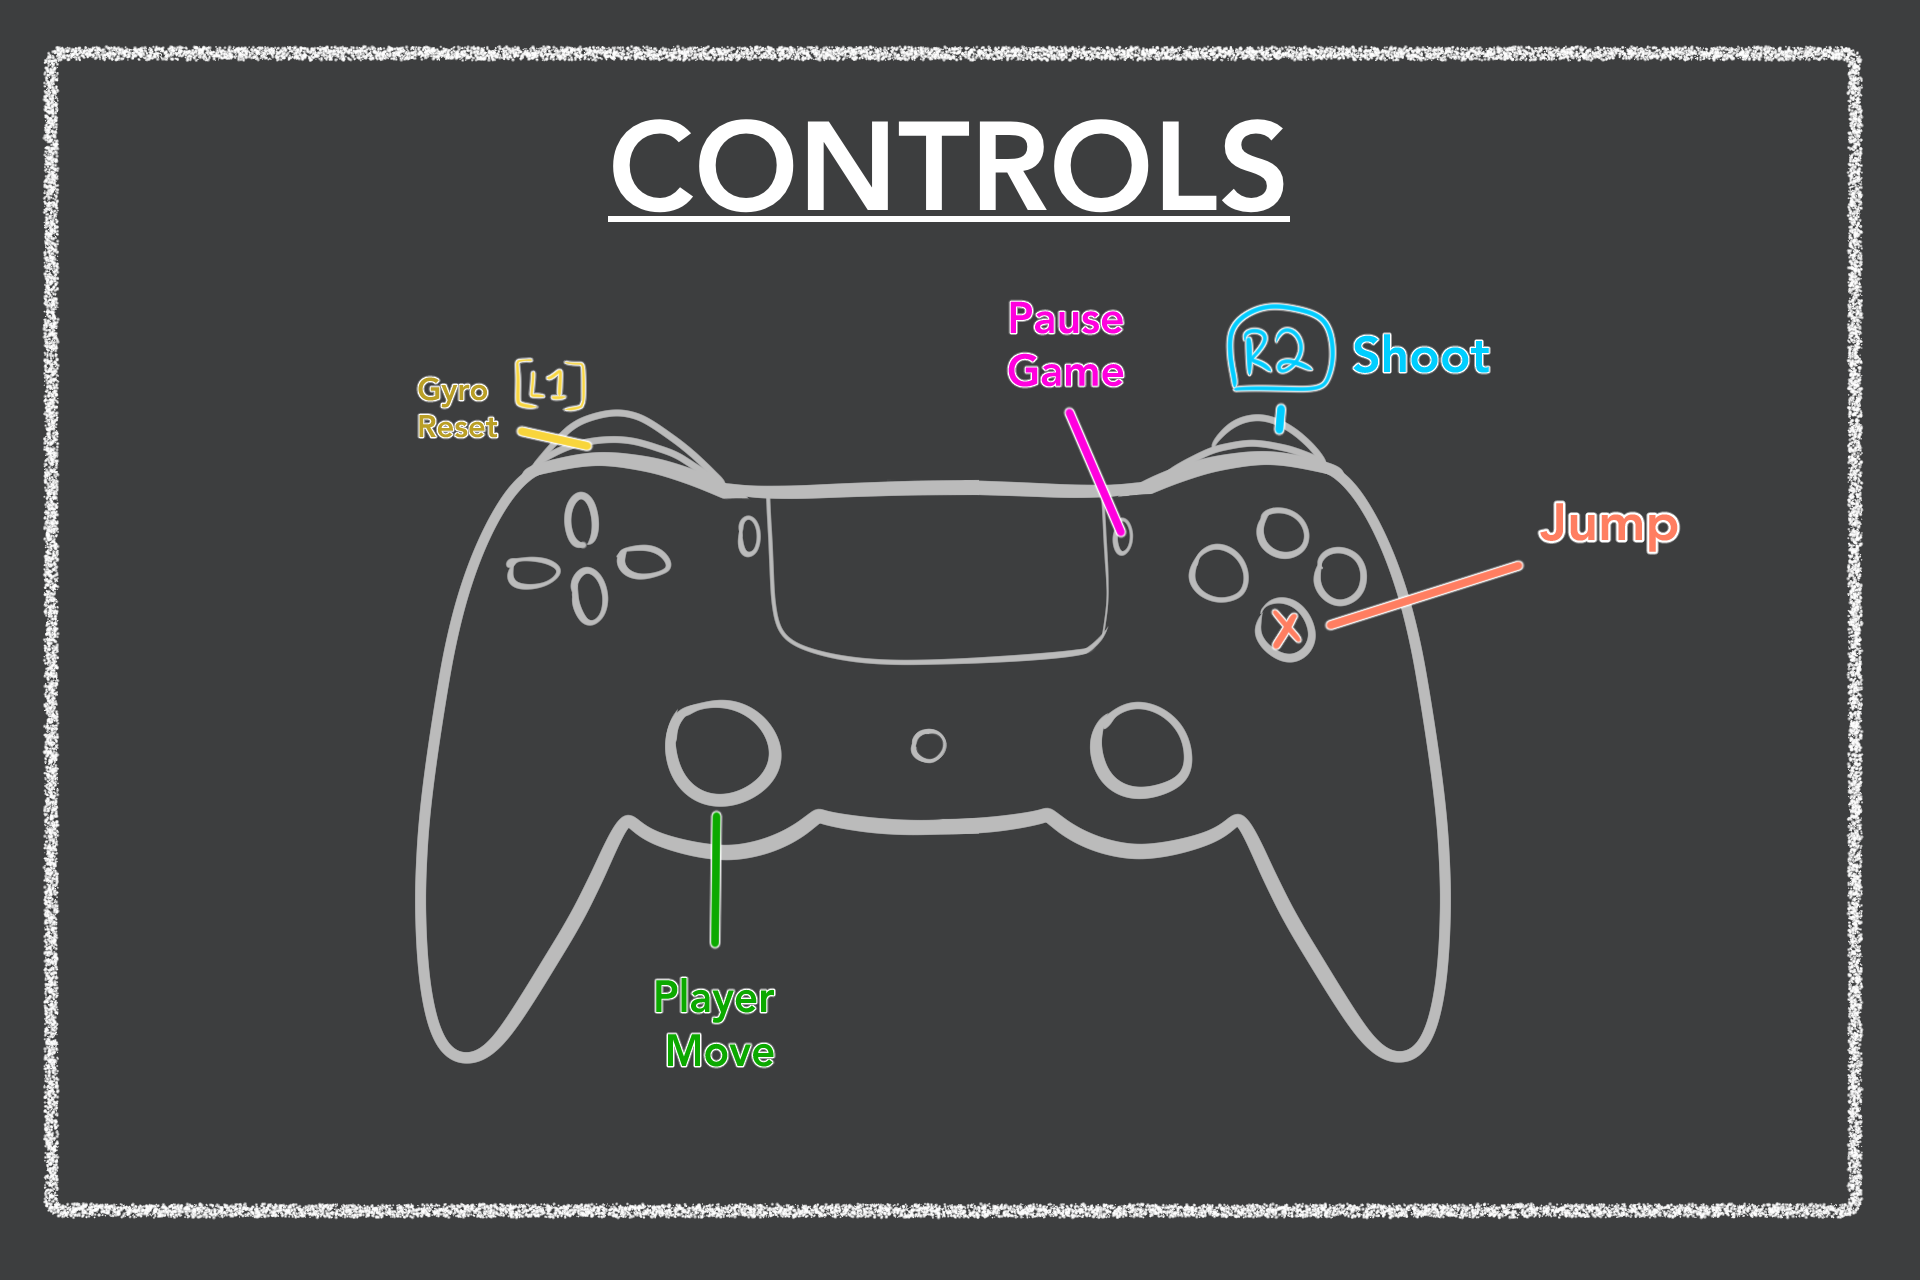
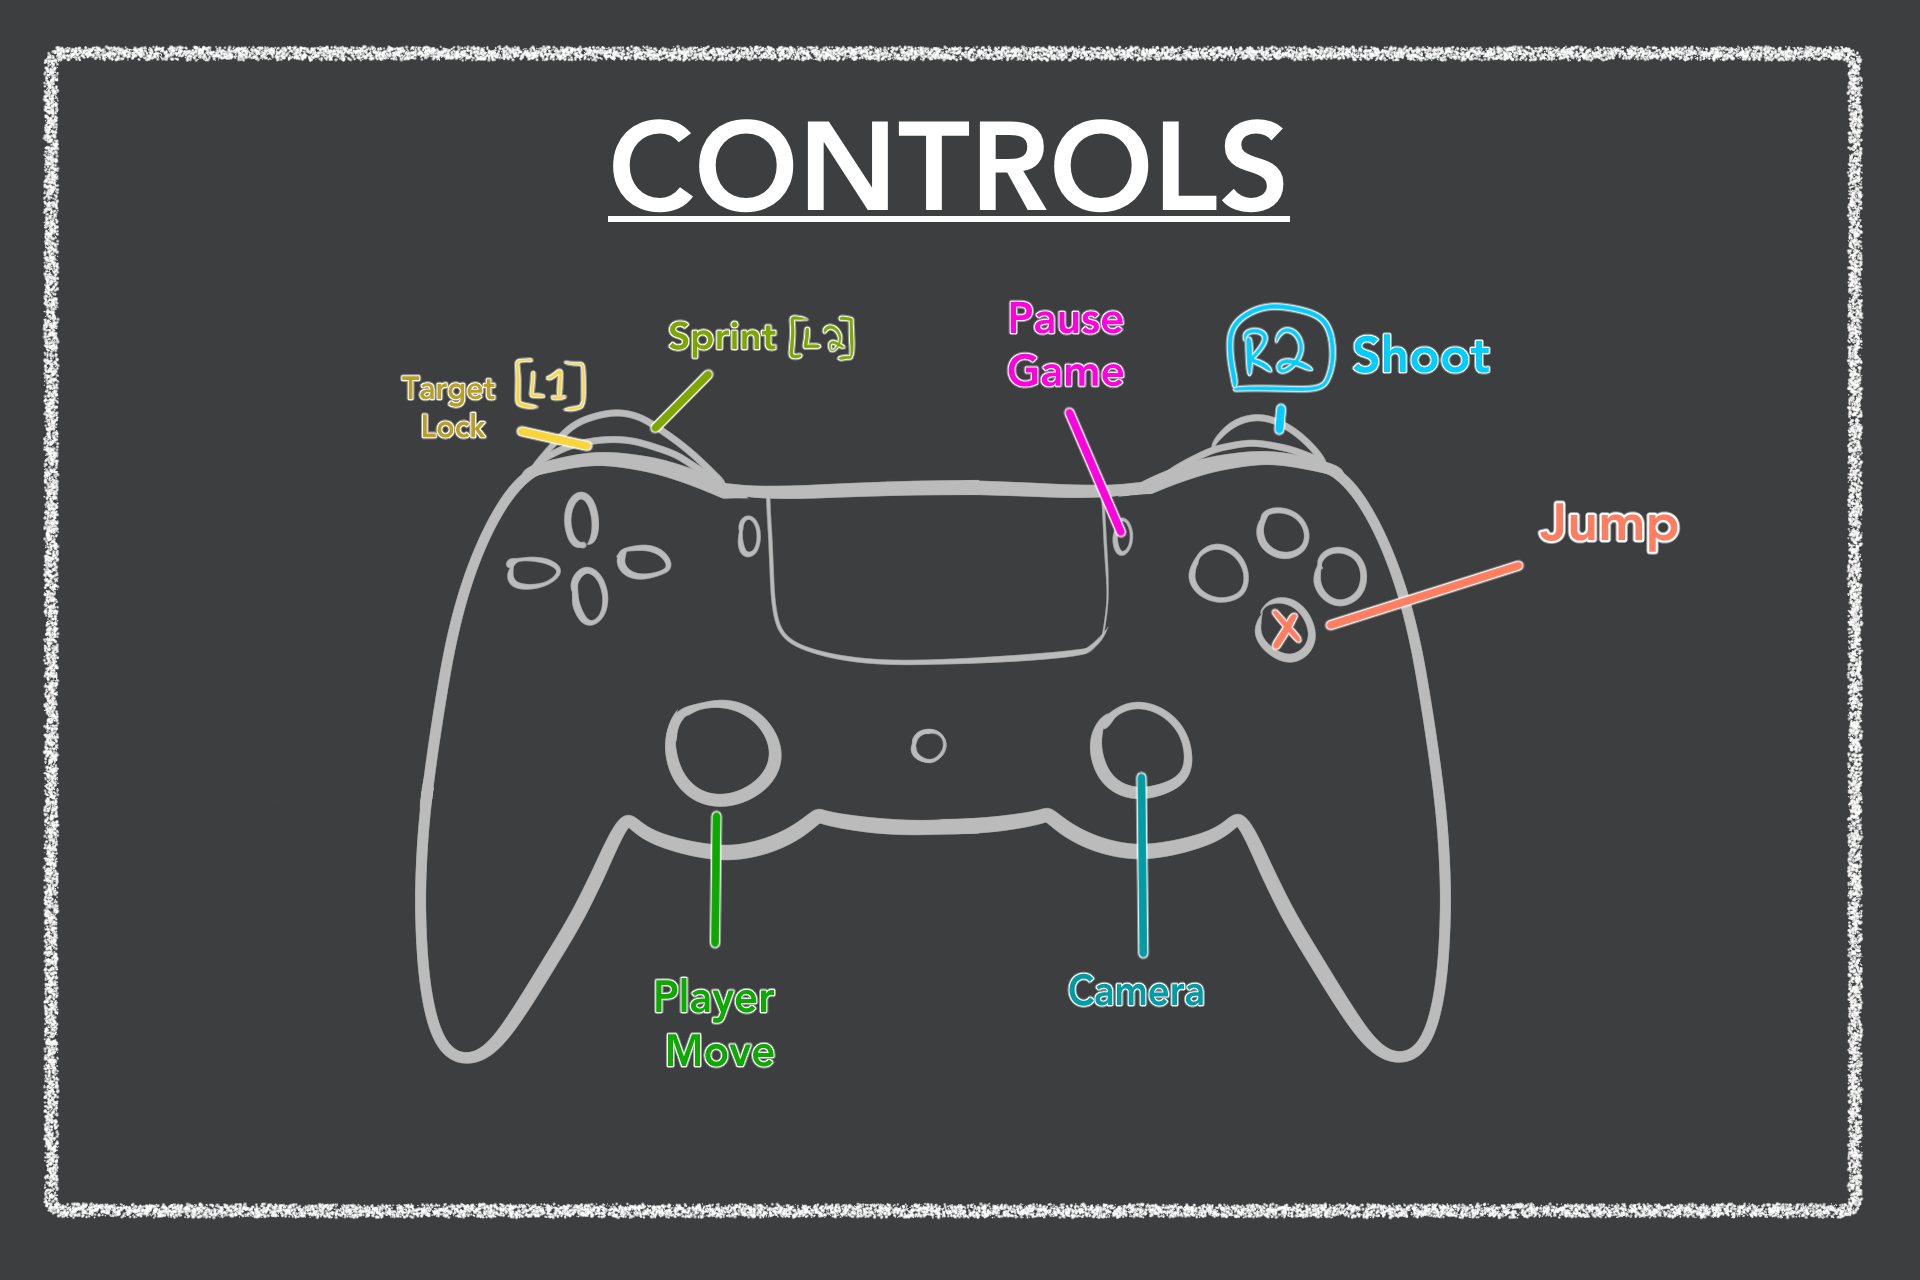
Add controls panel

Changed region(s): [[0.5312, 0.625, 0.625, 0.8125], [0.3438, 0.25, 0.4688, 0.3438], [0.1875, 0.2812, 0.2812, 0.3438]]

diff --git a/Assets/Scripts/Menu and Settings Scripts/PauseManager.cs b/Assets/Scripts/Menu and Settings Scripts/PauseManager.cs
@@ -13,6 +13,8 @@ public class PauseManager : MonoBehaviour
     private GameObject pausePanel;
     [SerializeField]
     private GameObject settingsPanel;
+    [SerializeField]
+    private GameObject controlsPanel;
 
     [SerializeField]
     private Button settingsButton;
@@ -61,7 +63,8 @@ public class PauseManager : MonoBehaviour
             else if (pauseStatus == PAUSESTATUS.Controls)
             {
                 pauseStatus = PAUSESTATUS.None;
-                Debug.Log("not implemented controls yet");
+                pauseStatus = PAUSESTATUS.None;
+                controlsPanel.SetActive(false);
             }
         }
 
@@ -93,7 +96,8 @@ public class PauseManager : MonoBehaviour
 
     private void TransitionToControls()
     {
-        Debug.Log("can't show controls yet");
+        controlsPanel.SetActive(true);
+        pauseStatus = PAUSESTATUS.Controls;
     }
 
     private bool BackInput()
